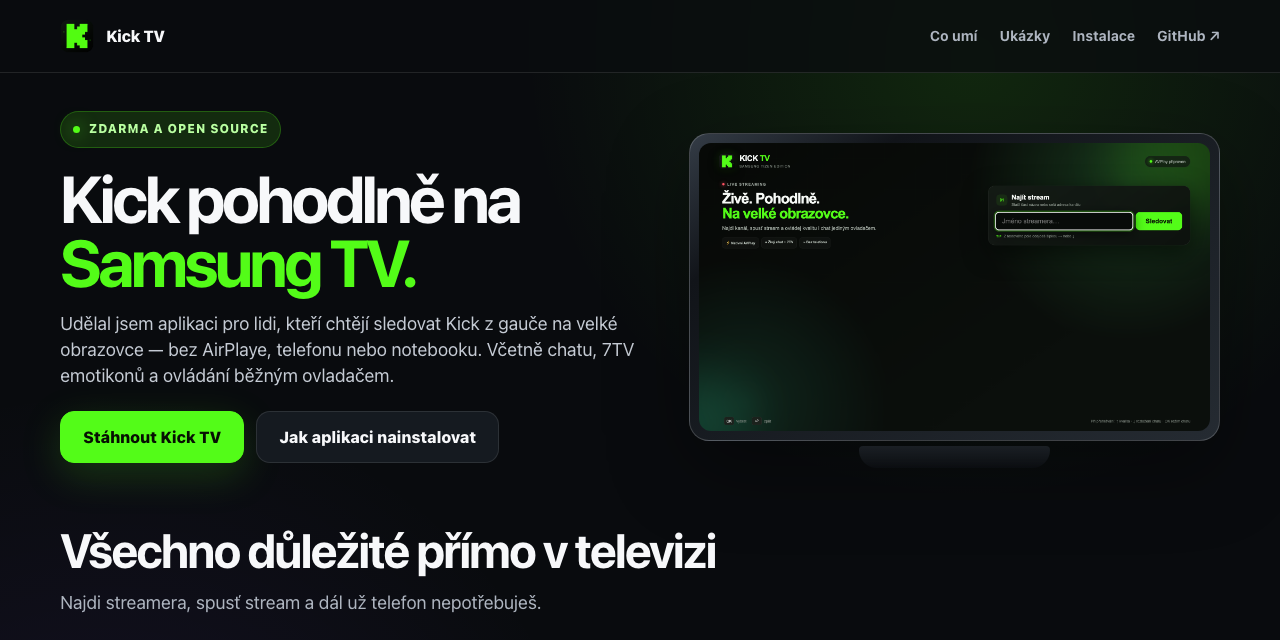
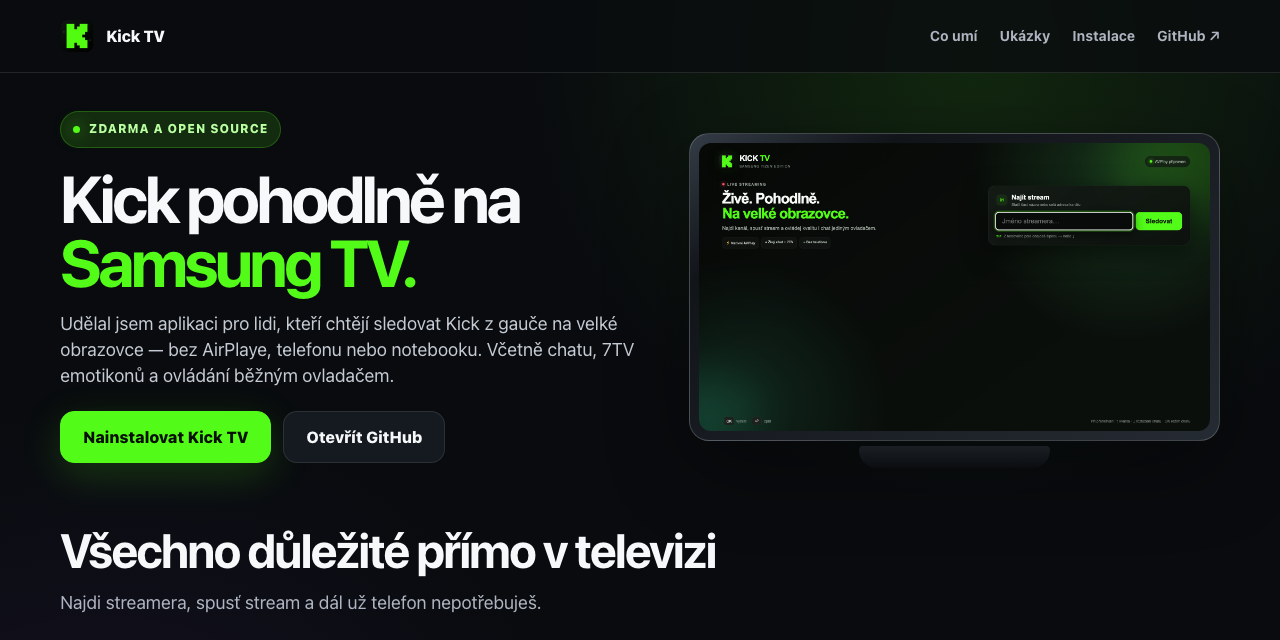
Simplify installation through community catalog

Changed region(s): [[0.0625, 0.625, 0.375, 0.75]]

diff --git a/docs/index.html b/docs/index.html
@@ -4,7 +4,7 @@
   <meta charset="utf-8">
   <meta name="viewport" content="width=device-width, initial-scale=1">
   <title>Kick TV pro Samsung Tizen – Kick streamy, chat a 7TV na televizi</title>
-  <meta name="description" content="Bezplatná neoficiální Kick aplikace pro Samsung Smart TV s Tizenem. Nativní AVPlay, vyhledávání streamerů, volba kvality, živý chat a animované Kick i 7TV emotikony.">
+  <meta name="description" content="Bezplatná neoficiální Kick aplikace pro Samsung Smart TV s Tizenem. Snadná instalace přes katalog Apps2Samsung, nativní AVPlay, živý chat a animované Kick i 7TV emotikony.">
   <meta name="keywords" content="Kick TV, Samsung TV, Samsung Smart TV, Tizen, Kick aplikace, Kick streaming, 7TV, AVPlay, WGT">
   <meta name="author" content="Kuba (CoreKill)">
   <meta name="robots" content="index, follow, max-image-preview:large">
@@ -51,6 +51,7 @@
       "url": "https://github.com/corekill"
     },
     "downloadUrl": "https://github.com/corekill/kick-tv-tizen/releases/latest",
+    "installUrl": "https://github.com/corekill/kick-tv-tizen/blob/main/INSTALL.md",
     "codeRepository": "https://github.com/corekill/kick-tv-tizen",
     "url": "https://corekill.github.io/kick-tv-tizen/",
     "image": "https://corekill.github.io/kick-tv-tizen/social-preview.png"
@@ -242,8 +243,8 @@
         <h1>Kick pohodlně na <span>Samsung TV.</span></h1>
         <p class="lead">Udělal jsem aplikaci pro lidi, kteří chtějí sledovat Kick z gauče na velké obrazovce — bez AirPlaye, telefonu nebo notebooku. Včetně chatu, 7TV emotikonů a ovládání běžným ovladačem.</p>
         <div class="actions">
-          <a class="button primary" href="https://github.com/corekill/kick-tv-tizen/releases/latest">Stáhnout Kick TV</a>
-          <a class="button" href="https://github.com/corekill/kick-tv-tizen/blob/main/INSTALL.md">Jak aplikaci nainstalovat</a>
+          <a class="button primary" href="https://github.com/corekill/kick-tv-tizen/blob/main/INSTALL.md">Nainstalovat Kick TV</a>
+          <a class="button" href="https://github.com/corekill/kick-tv-tizen">Otevřít GitHub</a>
         </div>
       </div>
       <div class="tv">
@@ -288,11 +289,11 @@
         <div class="install-card">
           <div>
             <h2>Chceš to zkusit na své TV?</h2>
-            <p>Kick TV je určená pro Samsung televize s Tizenem 4.0 a novějším. Stáhni WGT z posledního vydání a Apps2Samsung ho při instalaci podepíše přímo pro tvoji televizi.</p>
+            <p>Kick TV je teď přímo v komunitním katalogu Apps2Samsung. Stačí v nabídce vybrat KickTV, označit svoji televizi a kliknout na Download & Install — žádné ruční stahování WGT.</p>
           </div>
-          <a class="button primary" href="https://github.com/corekill/kick-tv-tizen/blob/main/INSTALL.md">Otevřít návod</a>
+          <a class="button primary" href="https://github.com/corekill/kick-tv-tizen/blob/main/INSTALL.md">Instalace krok za krokem</a>
         </div>
-        <div class="english" lang="en"><strong>English:</strong> Kick TV is a free, unofficial Kick streaming app for Samsung Smart TVs running Tizen. It includes native AVPlay video, channel search, quality selection, LIVE/OFFLINE history, live chat, animated Kick and 7TV emotes, and configurable in-picture chat layouts. <a href="https://github.com/corekill/kick-tv-tizen#english">Read the English README →</a></div>
+        <div class="english" lang="en"><strong>English:</strong> Kick TV is a free, unofficial Kick streaming app for Samsung Smart TVs running Tizen. It includes native AVPlay video, channel search, quality selection, LIVE/OFFLINE history, live chat, animated Kick and 7TV emotes, and configurable in-picture chat layouts. Installation is available directly from the Apps2Samsung community catalog. <a href="https://github.com/corekill/kick-tv-tizen#english">Read the English README →</a></div>
       </div>
     </section>
   </main>

diff --git a/README.md b/README.md
@@ -4,7 +4,9 @@ Kick TV jsem vytvořil pro každého, kdo chce sledovat své oblíbené streamer
 
 ![Ikona Kick TV](kick-tv/kick-icon-117.png)
 
-[Web projektu](https://corekill.github.io/kick-tv-tizen/) · [Stáhnout nejnovější verzi](https://github.com/corekill/kick-tv-tizen/releases/latest) · [Návod k instalaci](INSTALL.md)
+[Web projektu](https://corekill.github.io/kick-tv-tizen/) · [Nainstalovat přes Apps2Samsung](INSTALL.md) · [Nejnovější vydání](https://github.com/corekill/kick-tv-tizen/releases/latest)
+
+[![Dostupné v katalogu Apps2Samsung](https://img.shields.io/badge/Instalace-Apps2Samsung%20Community-53FC18?style=for-the-badge&logo=samsung&logoColor=white&labelColor=11151A)](https://github.com/Apps2Samsung/Apps2Samsung/releases)
 
 ## Co aplikace umí
 
@@ -30,16 +32,14 @@ Kick TV jsem vytvořil pro každého, kdo chce sledovat své oblíbené streamer
 
 ## Jak aplikaci dostat do televize
 
-Samsung bohužel nedovolí nainstalovat jeden univerzálně podepsaný balíček do všech televizí. Stažený WGT se proto musí při instalaci podepsat přímo pro tvoji TV. Nejjednodušší je použít Apps2Samsung, který se o to postará za tebe.
+Kick TV je přímo v komunitním katalogu Apps2Samsung, takže už nemusíš ručně stahovat ani vybírat WGT soubor. Apps2Samsung stáhne aktuální verzi, podepíše ji pro tvoji televizi a rovnou ji nainstaluje.
 
 1. Na televizi zapni **Vývojářský režim** a potom ji restartuj.
 2. Stáhni a spusť [Apps2Samsung](https://github.com/Apps2Samsung/Apps2Samsung/releases).
-3. Stáhni `KickTV.wgt` z [nejnovějšího vydání Kick TV](https://github.com/corekill/kick-tv-tizen/releases/latest).
-4. V Apps2Samsung vyber **Custom WGT File**, zvol stažený `KickTV.wgt`, označ svoji televizi a spusť instalaci.
+3. V nabídce **Release** vyber **KickTV**.
+4. Vyber svoji televizi a klikni na **Download & Install**.
 
-Apps2Samsung televizi najde, vytvoří potřebný certifikát, balíček podepíše a nainstaluje. Kdyby se něco zaseklo, podrobnější postup a nejčastější řešení najdeš v [INSTALL.md](INSTALL.md).
-
-Do budoucna bych chtěl Kick TV dostat také do katalogu [Tizen Community Packages](https://github.com/Apps2Samsung/tizen-community-packages). Instalace by pak byla ještě o krok jednodušší a WGT by nebylo potřeba vybírat ručně.
+To je celé. Kdyby se něco zaseklo nebo se KickTV v nabídce nezobrazila, podrobnější postup, záložní ruční instalaci a nejčastější řešení najdeš v [INSTALL.md](INSTALL.md).
 
 ## Co dělají tlačítka při sledování
 
@@ -88,7 +88,7 @@ Zdrojový kód je dostupný pod [licencí MIT](LICENSE), takže se v něm může
 
 I built Kick TV for anyone who wants to watch their favorite streamers comfortably from the couch on a big screen — without AirPlay, a phone, or a laptop. Just find a channel, start the stream, and control everything with your TV remote.
 
-[Project website](https://corekill.github.io/kick-tv-tizen/) · [Download the latest release](https://github.com/corekill/kick-tv-tizen/releases/latest) · [Installation guide](INSTALL.md)
+[Project website](https://corekill.github.io/kick-tv-tizen/) · [Install with Apps2Samsung](INSTALL.md) · [Latest release](https://github.com/corekill/kick-tv-tizen/releases/latest)
 
 ## Features
 
@@ -103,16 +103,14 @@ I built Kick TV for anyone who wants to watch their favorite streamers comfortab
 
 ## Easy installation
 
-Samsung requires every sideloaded Tizen package to be signed for the target TV. The WGT in the GitHub release is therefore intentionally device-neutral, and the recommended installer signs it specifically for your television.
+Kick TV is now included directly in the Apps2Samsung community catalog. You no longer need to download or select the WGT manually—Apps2Samsung fetches the current release, signs it for your TV, and installs it.
 
 1. Enable **Developer Mode** on the TV and restart it.
 2. Download and open [Apps2Samsung](https://github.com/Apps2Samsung/Apps2Samsung/releases).
-3. Download `KickTV.wgt` from the [latest Kick TV release](https://github.com/corekill/kick-tv-tizen/releases/latest).
-4. In Apps2Samsung select **Custom WGT File**, choose `KickTV.wgt`, select the TV, and install.
+3. Select **KickTV** from the **Release** dropdown.
+4. Select your TV and click **Download & Install**.
 
-Apps2Samsung handles TV discovery, Samsung login when required, certificate generation, package signing, and installation. See [INSTALL.md](INSTALL.md) for the complete walkthrough and troubleshooting.
-
-The long-term goal is inclusion in the [Tizen Community Packages](https://github.com/Apps2Samsung/tizen-community-packages) catalog, which removes the custom-file step.
+That is it. Apps2Samsung handles the download, TV discovery, Samsung login when required, certificate generation, package signing, and installation. See [INSTALL.md](INSTALL.md) for troubleshooting and the manual fallback.
 
 ## Playback controls
 

diff --git a/INSTALL.md b/INSTALL.md
@@ -13,19 +13,23 @@
 
 Developer Mode must remain enabled whenever the app is installed or updated.
 
-### 2. Install the WGT
+### 2. Install Kick TV from the community catalog
 
 1. Download [Apps2Samsung](https://github.com/Apps2Samsung/Apps2Samsung/releases) for Windows, macOS, Linux, or Android.
-2. Download `KickTV.wgt` from the latest release of this repository.
-3. Start Apps2Samsung and select the detected TV. If it is not detected, enter its IP address manually.
-4. Select **Custom WGT File** and choose `KickTV.wgt`.
-5. Click **Install** and complete Samsung login if requested.
+2. Start Apps2Samsung.
+3. Select **KickTV** from the **Release** dropdown.
+4. Select the detected TV. If it is not detected, use the refresh button or enter its IP address manually.
+5. Click **Download & Install** and complete Samsung login if requested.
 
-Apps2Samsung generates a distributor certificate containing the TV's DUID, re-signs the WGT, and installs it. The release package does not contain private signing keys.
+Apps2Samsung downloads the current `KickTV.wgt` from the community catalog, generates a distributor certificate containing the TV's DUID, re-signs the package, and installs it. The release package does not contain private signing keys.
+
+### Manual fallback
+
+If **KickTV** is not shown in the Release dropdown, first update Apps2Samsung to the latest version and refresh its catalog. As a fallback, download `KickTV.wgt` from the [latest Kick TV release](https://github.com/corekill/kick-tv-tizen/releases/latest), choose **Custom WGT File** in Apps2Samsung, and install it the same way.
 
 ## Updating
 
-Repeat the installation with the newer `KickTV.wgt`. Settings and viewing history normally remain stored because the application ID stays unchanged.
+Select **KickTV** in Apps2Samsung and run **Download & Install** again. Settings and viewing history normally remain stored because the application ID stays unchanged.
 
 If Tizen reports a certificate mismatch, remove the existing Kick TV installation and install it again. This can happen when the new package is signed with a different author certificate.
 